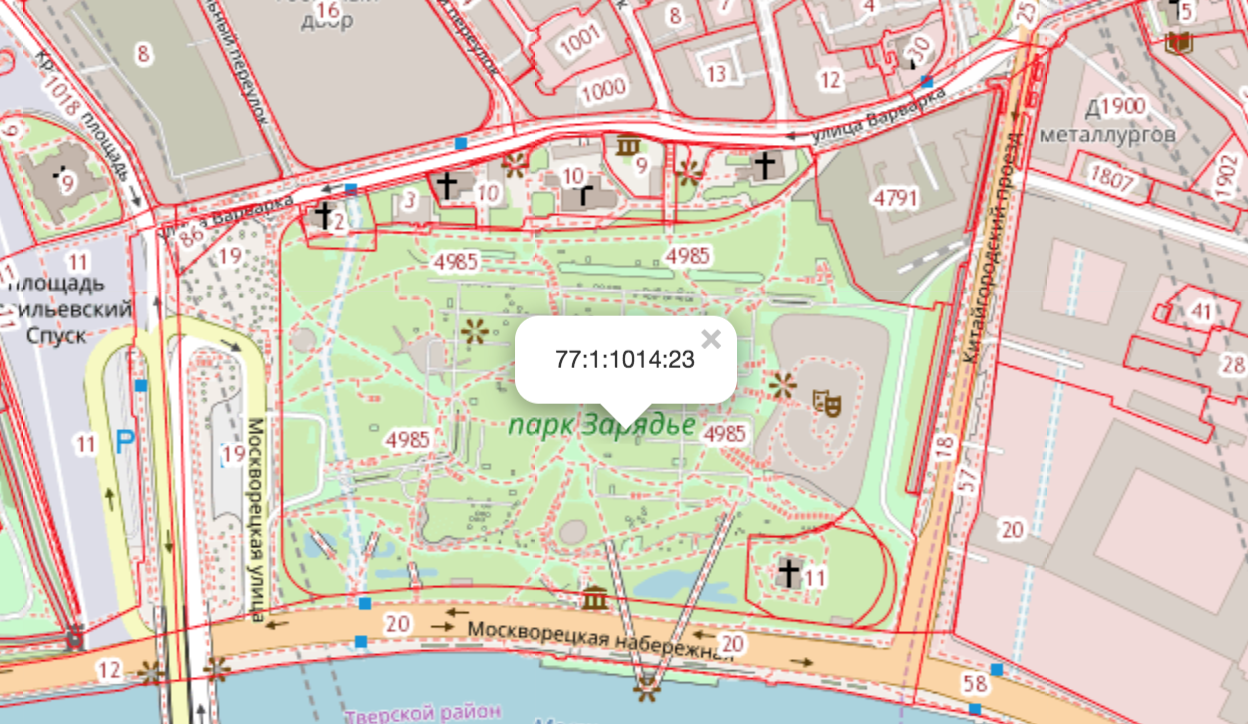
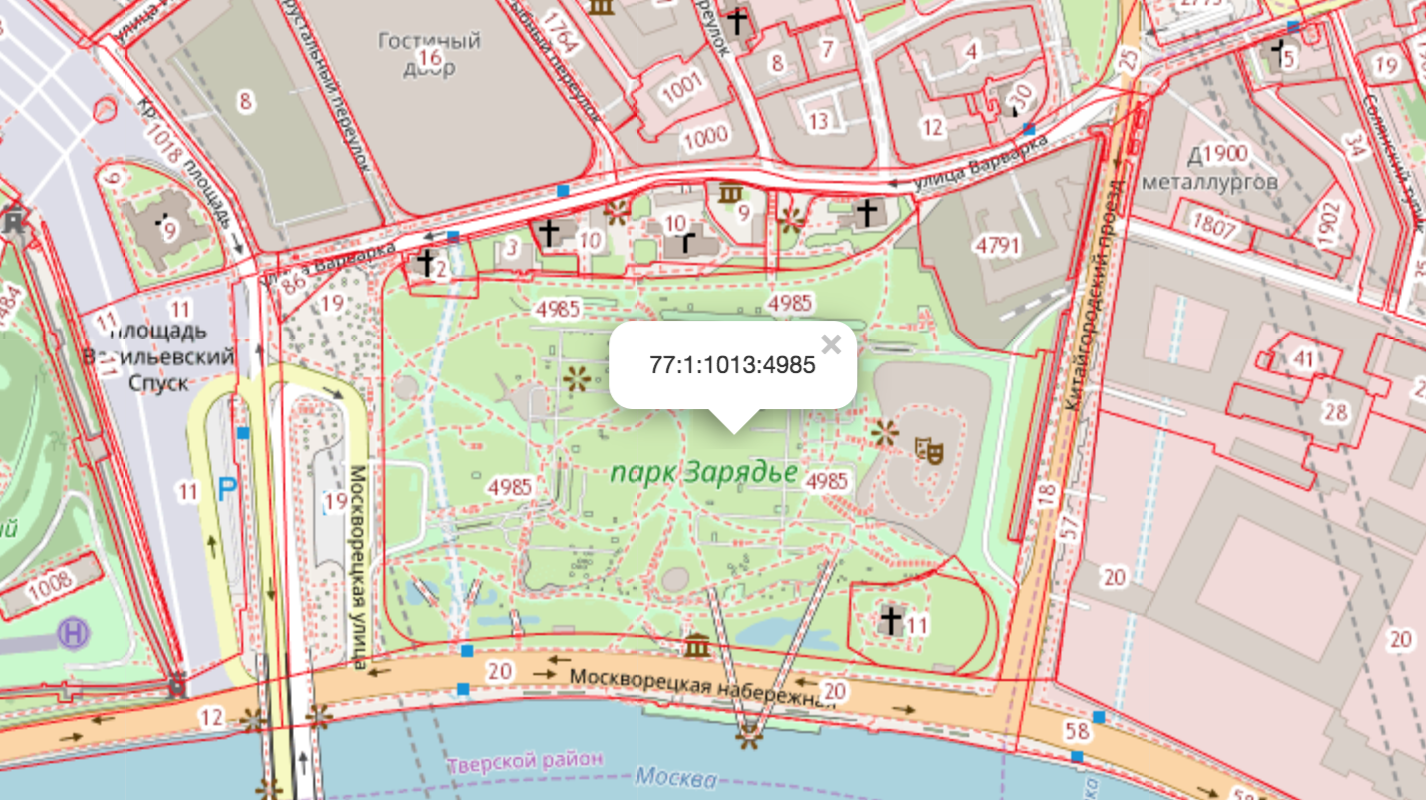
chore: cleanup

diff --git a/index.js b/index.js
@@ -1,40 +1,44 @@
 L.TileLayer.PKK = L.TileLayer.WMS.extend({
+  _initHook: function() {
+    this.apiURL = this.options.apiURL || 'https://pkk5.rosreestr.ru/api/features/1';
+    this.baseURL = this.options.baseURL || 'https://pkk5.rosreestr.ru/';
+  },
+
   onAdd: function(map) {
     L.TileLayer.WMS.prototype.onAdd.call(this, map);
     map.on('click', this.onClick, this);
   },
+
   onRemove: function(map) {
     L.TileLayer.WMS.prototype.onRemove.call(this, map);
     map.off('click', this.onClick, this);
   },
+
   onClick: function(event) {
     const latlng = event.latlng;
     this.getFeatures(latlng);
   },
-  getFeaturesURL: function(latlng) {
-    const baseURL = 'https://pkk5.rosreestr.ru/api/features/1';
 
+  getFeaturesURL: function(latlng) {
     const params = {
       text: latlng.lat + ',' + latlng.lng,
-      tolerance: 4097,
-      limit: 11
+      tolerance: 4,
+      limit: 1
     };
 
-    return baseURL + L.Util.getParamString(params, baseURL);
+    return this.apiURL + L.Util.getParamString(params, this.apiURL);
   },
+
   getFeatures: function(latlng) {
     const url = this.getFeaturesURL(latlng);
     const onFeaturesClick = L.Util.bind(this.onFeaturesClick, this);
 
-    const headers = {
-      referer: 'https://pkk5.rosreestr.ru/'
-    };
-
-    fetch(url, { headers })
+    fetch(url, { headers: { referer: this.baseURL } })
       .then((response) => response.json())
       .then((info) => onFeaturesClick(null, latlng, info))
       .catch((error) => onFeaturesClick(error, latlng, null));
   },
+
   onFeaturesClick: function(error, latlng, info) {
     if (error || info.features.length <= 0) {
       return;
@@ -47,23 +51,21 @@ L.TileLayer.PKK = L.TileLayer.WMS.extend({
     const id = feature.attrs.id;
     this.getFeatureInfo(id, latlng);
   },
+
   getFeatureInfoURL: function(id) {
-    const baseURL = 'https://pkk5.rosreestr.ru/api/features/1';
-    return baseURL + '/' + id;
+    return this.apiURL + '/' + id;
   },
+
   getFeatureInfo: function(id, latlng) {
     const url = this.getFeatureInfoURL(id);
     const onFeatureClick = L.Util.bind(this.onFeatureClick, this);
 
-    const headers = {
-      referer: 'https://pkk5.rosreestr.ru/'
-    };
-
-    fetch(url, { headers })
+    fetch(url, { headers: { referer: this.baseURL } })
       .then((response) => response.json())
       .then((info) => onFeatureClick(null, latlng, info))
       .catch((error) => onFeatureClick(error, latlng, null));
   },
+
   onFeatureClick: function(error, latlng, info) {
     if (error || !info.feature) {
       return;
@@ -73,6 +75,8 @@ L.TileLayer.PKK = L.TileLayer.WMS.extend({
     this.fire('featureclick', { latlng, feature });
   }
 });
+
+L.TileLayer.PKK.addInitHook('_initHook');
 
 L.tileLayer.pkk = function(options) {
   const opts = L.extend(
